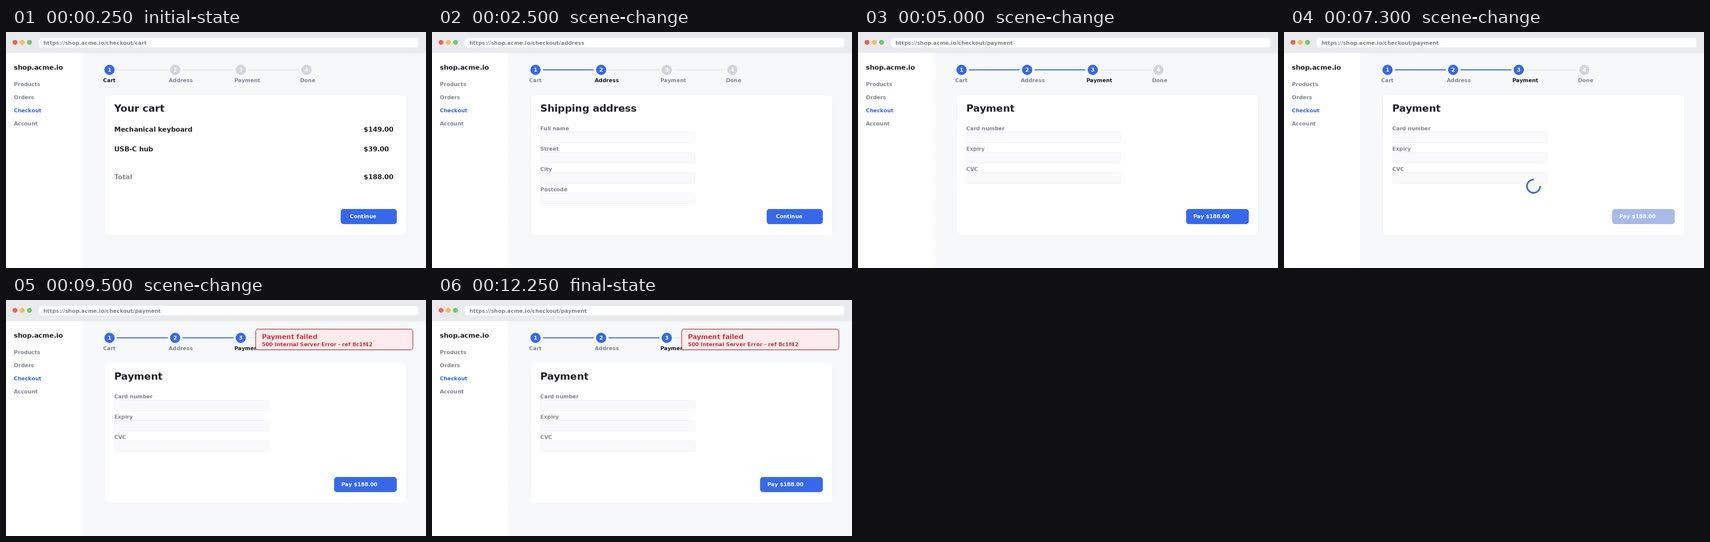
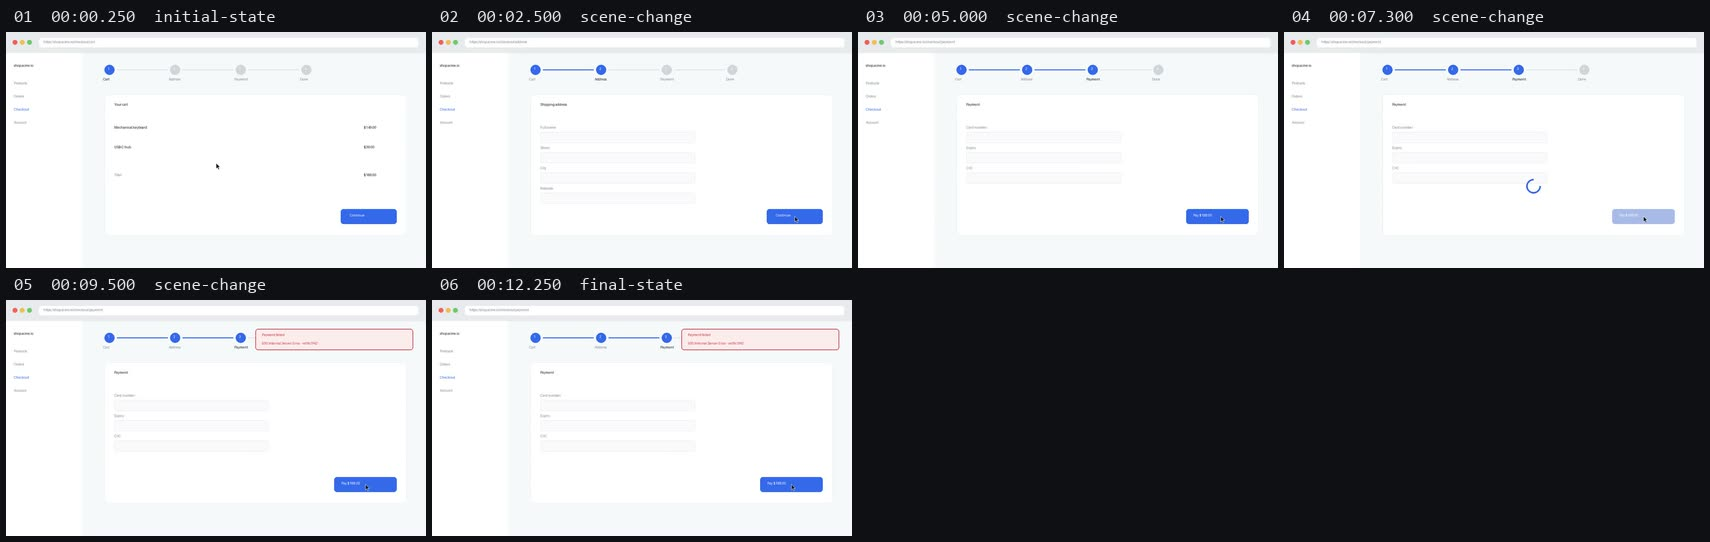
docs: approachable README with quickstart, demo GIF, refreshed examples
README now opens with what a dev actually does: a 5-frame terminal
walkthrough GIF (install -> ask -> extraction -> contact sheet ->
report), a quickstart with both marketplace commands explained, the
requirements table, and a real output excerpt. Deep-dive sections
condensed below it. Example contact sheet regenerated with v1.3.0
(cursor + OCR); worked bug report gains the cursor-estimate and
OCR-confirmation lines.

diff --git a/README.md b/README.md
@@ -1,117 +1,139 @@
-# claude-skills
+# claude-video-parser
 
-Skills for Claude Code / Claude Agent SDK. One skill per directory under `skills/`.
+**Hand Claude Code a screen recording of a broken UI flow. Get back an evidence-bounded
+bug report** — which frame shows the failure, where the user clicked, what the error text
+says, and an honest list of what the video *cannot* prove.
 
-| Skill | What it does | Status |
-|---|---|---|
-| [`flow-recording-report`](skills/flow-recording-report) | Turns a screen recording of a broken UI flow into a structured, evidence-bounded bug report — keyframes, cursor/click inference, optional OCR, ROI scoring, trace detection | v1.3.0 |
+![Demo walkthrough](examples/demo.gif)
 
----
+Claude has no native video input — so this skill turns the recording into a handful of
+well-chosen keyframes (not 90 blind samples), reads one labelled contact sheet, and writes
+a report where every claim is tagged observed / inferred / not-determinable.
 
-## flow-recording-report
+## Quickstart
 
-### The problem it actually solves
-
-Claude has **no native video input** — the [vision docs](https://platform.claude.com/docs/en/build-with-claude/vision) are images only, and even animated GIFs are read first-frame-only. So any "video" workflow is really a frame-sampling workflow, and the naive version is expensive: a 45-second recording at 2 fps is 90 frames × ~1,300 visual tokens ≈ **117k tokens** to describe one bug.
-
-This skill is for the case where you **cannot reproduce the flow yourself** — a Loom from QA, a customer's screen capture, a video artifact from a CI failure. If the app is running on your machine, drive the browser with Playwright MCP or Chrome DevTools MCP instead; the DOM, console, and network beat pixels on every axis. The skill says so itself and declines.
-
-### Two things it does differently
-
-**1. Scene thresholds calibrated for UI, not film.**
-
-ffmpeg's conventional scene-change threshold is `0.3`, tuned for hard cuts in video. Measured on a screen recording of a checkout flow, real UI transitions score:
-
-| Transition | scene score |
-|---|---|
-| Cart → Address page | 0.0209 |
-| Address → Payment page | 0.0133 |
-| Button press → spinner | 0.0089 |
-| Spinner → error toast | 0.0155 |
-
-At `0.3`, a screen recording returns **zero** scene changes — which is why most video tooling abandons scene detection and falls back to fixed-fps sampling. This extractor seeds at `0.0015` and then applies **temporal non-maximum suppression**: candidates are ranked by score and greedily accepted only if they are ≥ `--min-gap` seconds from an already-accepted frame. A 400ms spinner animation contributes one frame instead of twelve.
-
-Result on the bundled fixture — a 12.5s recording with six distinct states:
-
-```
-strategy    scene-change + temporal-NMS  (5 candidates -> 6 frames)
-est. cost   ~4,662 visual tokens for all frames (naive 2fps would be ~19,425)
-```
-
-Six frames, every real transition captured, ~4x cheaper.
-
-**2. A labelled contact sheet, read first.**
-
-The extractor emits `contact-sheet.jpg`: every keyframe in one grid, each tile labelled with index, timestamp, and selection reason. That is **one image, ~1k visual tokens**, and for most bugs it is sufficient on its own — on the fixture, the error string `500 Internal Server Error - ref 8c1f42` is legible at contact-sheet resolution. Individual full-resolution frames are pulled only when needed. Binary search, not a dump.
-
-### What it deliberately does not do
-
-No audio, no transcription, no YouTube, no MCP server, no API keys, no model downloads. Stdlib Python + ffmpeg. If you need per-segment variable-fps extraction or audio, compose with [`claude-video-vision`](https://github.com/jordanrendric/claude-video-vision) — that plugin is a perception layer, this is a reporting contract, and they stack.
-
-### The reporting contract
-
-The other half of the skill is `references/evidence-rules.md`, which forces every claim into one of three tiers — `[O]` observed in a cited frame, `[I]` inferred, `[?]` not determinable — and requires an explicit **"Not determinable from this recording"** section listing what video physically cannot show: HTTP status codes, console errors, the DOM selector involved, application state, whether it reproduces.
-
-That section is the point. A screen recording looks like complete evidence and is not, and a confident wrong bug report costs a developer more time than no bug report.
-
----
-
-## Install
-
-**Via the Claude Code plugin marketplace** (recommended — works in the CLI and the IDE
-extensions; keeps the skill updatable):
+**1. Install the plugin** — inside Claude Code (CLI or IDE extension), run these two
+commands once. The first registers this repo as a plugin source, the second installs the
+skill from it:
 
 ```
 /plugin marketplace add ChandanBose666/claude-video-parser
 /plugin install flow-recording-report@claude-video-parser
 ```
 
-Restart Claude Code and confirm with `/plugin` or by asking Claude what skills it has.
+Restart Claude Code. (Prefer a plain copy? `./scripts/install.sh` or
+`.\scripts\install.ps1` puts the skill into `~/.claude/skills/` instead; `--project` /
+`-Project` scopes it to the current repo.)
 
-**Via install script** (copies the skill into `~/.claude/skills/`):
+**2. Make sure ffmpeg is on PATH** — the only hard requirement:
 
-```bash
-# macOS / Linux
-./scripts/install.sh
+| | |
+|---|---|
+| macOS | `brew install ffmpeg` |
+| Debian/Ubuntu | `sudo apt install ffmpeg` |
+| Windows | `winget install Gyan.FFmpeg` |
 
-# Windows PowerShell
-.\scripts\install.ps1
-```
+Optional but worth it: `tesseract` (`brew install tesseract` / `sudo apt install
+tesseract-ocr` / `winget install UB-Mannheim.TesseractOCR`) — adds grep-able OCR text for
+every extracted frame, so error strings are found before spending any visual tokens.
 
-Pass `--project` / `-Project` to install into `.claude/skills/` of the current repo instead.
+**3. Use it** — drag the video into the prompt (or type its path) and say what you expected:
 
-**Manual:** copy `skills/flow-recording-report/` to `~/.claude/skills/`.
+> QA sent me this recording of checkout breaking — `./bug.mp4`. Expected: clicking Pay
+> reaches the confirmation page.
 
-### Requirements
-
-- `ffmpeg` and `ffprobe` on PATH
-  - macOS `brew install ffmpeg` · Debian/Ubuntu `sudo apt install ffmpeg` · Windows `winget install Gyan.FFmpeg`
-- Python 3.10+ (stdlib only)
-- `tesseract` — **optional**, enables the per-frame OCR pass (grep-able frame text in the manifest)
-  - macOS `brew install tesseract` · Debian/Ubuntu `sudo apt install tesseract-ocr` · Windows `winget install UB-Mannheim.TesseractOCR`
-- Pillow — **tests only**, not needed at runtime
-
-## Use
-
-Once installed, just tell Claude:
-
-> QA sent me this recording of checkout breaking — `./bug.mp4`. Expected: clicking Pay goes to the confirmation page.
-
-Or invoke the extractor directly:
+Claude extracts keyframes, reads the contact sheet, and writes `BUG-REPORT.md`. That's the
+whole workflow. You can also run the extractor directly:
 
 ```bash
 python3 skills/flow-recording-report/scripts/extract_keyframes.py bug.mp4 -o ./out
 python3 skills/flow-recording-report/scripts/extract_keyframes.py bug.mp4 --json   # machine-readable
 ```
 
+## What you get
+
+One contact sheet like this (every keyframe, labelled, ~1k visual tokens total — for most
+bugs it is sufficient on its own):
+
+![Example contact sheet](examples/contact-sheet.example.jpg)
+
+...and a report ([full worked example](examples/BUG-REPORT.example.md)) whose claims look
+like this:
+
+```
+[O] Payment failed / 500 Internal Server Error - ref 8c1f42     (frames 05-06)
+[O] spinner present 00:07.3 -> 00:09.5 = 2.2s
+[I] user clicked near (1087, 561) - the Pay button region (high confidence)
+[?] actual HTTP status, console errors, whether it reproduces
+```
+
+`[O]` observed in a cited frame · `[I]` inferred · `[?]` not determinable from video. The
+`[?]` section is deliberate: it tells the developer what to go collect, and it stops the
+report being trusted further than pixels can support. A confident wrong bug report costs
+more time than no report.
+
+## When NOT to use it
+
+The skill declines, on purpose, when a better artifact exists:
+
+- **You can reproduce the bug locally** → drive the browser with Playwright MCP or Chrome
+  DevTools MCP instead. The DOM, console, and network beat pixels on every axis.
+- **A Playwright trace or HAR sits next to the video** → the extractor detects
+  `trace.zip` / `*.har` / Cypress `screenshots/` siblings automatically and tells you to
+  read those first. The video is the fallback, not the primary.
+
+## How it works, and why it's cheap
+
+**Scene thresholds calibrated for UI, not film.** ffmpeg's conventional scene threshold
+(`0.3`) is tuned for hard cuts; measured UI transitions in real screen recordings score
+**0.002–0.05** — a toast changes 4% of the frame. This extractor seeds at `0.0015`, then
+applies temporal non-maximum suppression so a 400ms animation contributes one frame, not
+twelve. On the bundled fixture: 6 frames, every transition captured, ~4,662 visual tokens
+where naive 2fps sampling would burn ~19,425.
+
+**Cursor/click inference.** For each transition, the seconds *before* it are scanned at
+low resolution for a small travelling blob — a pointer — and the report can say "the user
+clicked *here*". Validated against ground-truth clicks on real recordings: located clicks
+land 1–49px off, with **zero wrong claims** — spinners, blinking carets, and typing are
+recognised and never reported as a pointer. When evidence is weak it abstains rather than
+guesses.
+
+**Optional OCR.** With tesseract installed, every frame's text lands in the manifest
+(frames are upscaled 2× first — the difference between missing and reading a 14px error
+banner). Error strings become grep-able before any frame is viewed.
+
+**Region-of-interest scoring.** A video player or animated canvas in the recording floods
+scene detection. The extractor notices, locates the continuously-changing region, and
+prints the exact `--roi` to retry with — measured on a real recording, that took 76
+candidates down to 2 and still caught the bug at its exact timestamp.
+
+**What it deliberately does not do:** audio, transcription, YouTube, MCP servers, API
+keys, model downloads. Stdlib Python + ffmpeg. For per-segment variable-fps extraction or
+audio, compose with [`claude-video-vision`](https://github.com/jordanrendric/claude-video-vision) —
+that's a perception layer, this is a reporting contract, and they stack.
+
+## Repo layout
+
+| Path | What |
+|---|---|
+| `skills/flow-recording-report/` | The skill: SKILL.md, extractor script, evidence rules, report template |
+| `examples/` | Worked example: demo GIF, contact sheet, full bug report |
+| `tests/` | 79 checks across four suites + a real-recording validation harness (`tests/realworld/`) |
+| `PROJECT-BRIEF.md` | Design decisions, their reasoning, and the cost of reversing them |
+
 ## Test
 
 ```bash
 python3 -m pip install pillow
-python3 tests/test_extract.py
+python3 tests/test_extract.py        # 34 end-to-end checks on a synthetic fixture
+python3 tests/test_cursor_units.py   # 21 unit checks: cursor detection primitives
+python3 tests/test_ocr_units.py      #  8 unit checks: OCR TSV parsing
+python3 tests/test_misc_units.py     # 16 unit checks: ROI + artifact detection
 ```
 
-Generates a synthetic checkout-flow video (with a moving cursor) where only a small region changes between steps — the exact case naive scene detection fails on — then asserts the extractor lands within 300ms of all four known transitions, locates the cursor within 45px of each click, abstains on the app-driven transition, captures the error toast via OCR when tesseract is present, pins first/last state, beats 2fps sampling by ≥2x, falls back gracefully on a static video, and exits non-zero on a missing file. Plus `tests/test_cursor_units.py` and `tests/test_ocr_units.py` for the detection primitives, and a real-recording validation harness in `tests/realworld/`. No test framework.
+CI runs all four on Ubuntu, macOS, and Windows (Python 3.10 and 3.12). The real-recording
+harness (`tests/realworld/`, needs Playwright + network) records genuine browser flows
+with ground-truth events and click coordinates, and scores the extractor against them.
 
 ## Licence
 

diff --git a/examples/BUG-REPORT.example.md b/examples/BUG-REPORT.example.md
@@ -46,6 +46,10 @@ rather than a navigation.
 `[I]` 2.2s is short for a network timeout and long for a client-side validation rejection,
 which points at a server response rather than a timeout or a local guard.
 
+`[I]` User appears to have clicked near **(1087, 561)** — the **Pay $188.00** button region
+(cursor estimate, high confidence, `frame-04`). The spinner→error transition at 00:09.50
+carries no cursor estimate, consistent with an app-driven change rather than a second click.
+
 ## On-screen text captured
 
 ```
@@ -55,6 +59,9 @@ Payment failed                                    [O] frame-05, frame-06
 
 `[O]` `ref 8c1f42` appears to be a correlation identifier surfaced to the user. It is the most
 directly actionable item in this report — grep the server logs for it before anything else.
+
+Both strings were flagged by the manifest's `ocr_text` for frames 05–06 and confirmed by
+reading the frames (OCR alone is a pointer, not a quote — see the skill's evidence rules).
 
 ## Environment observed
 
